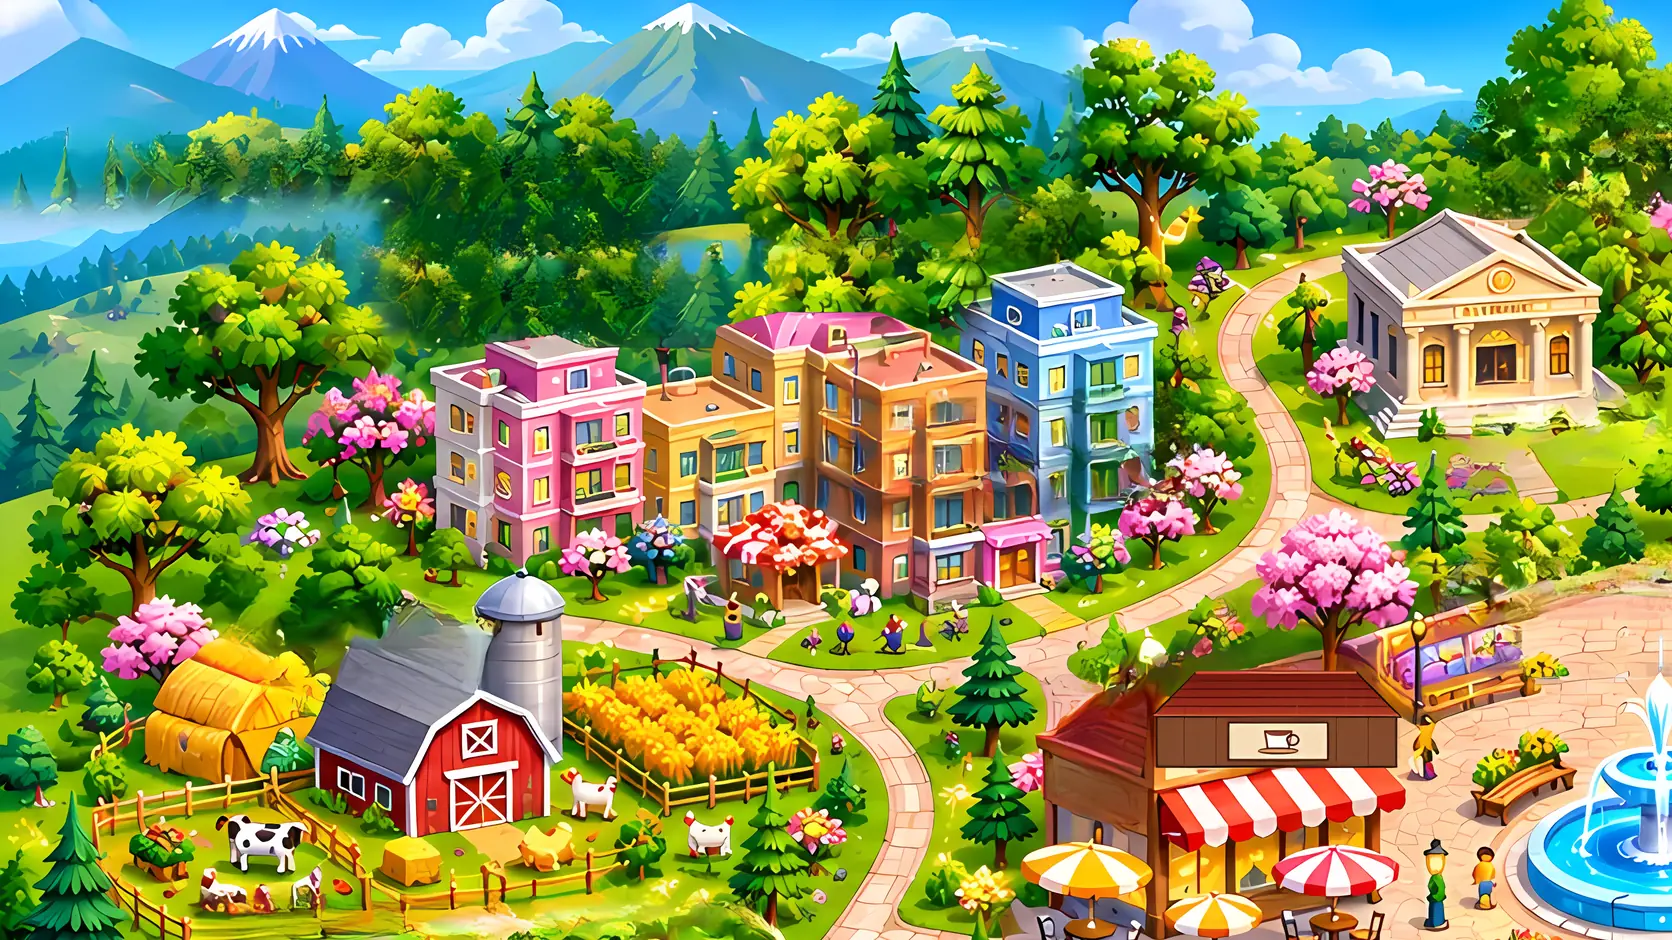
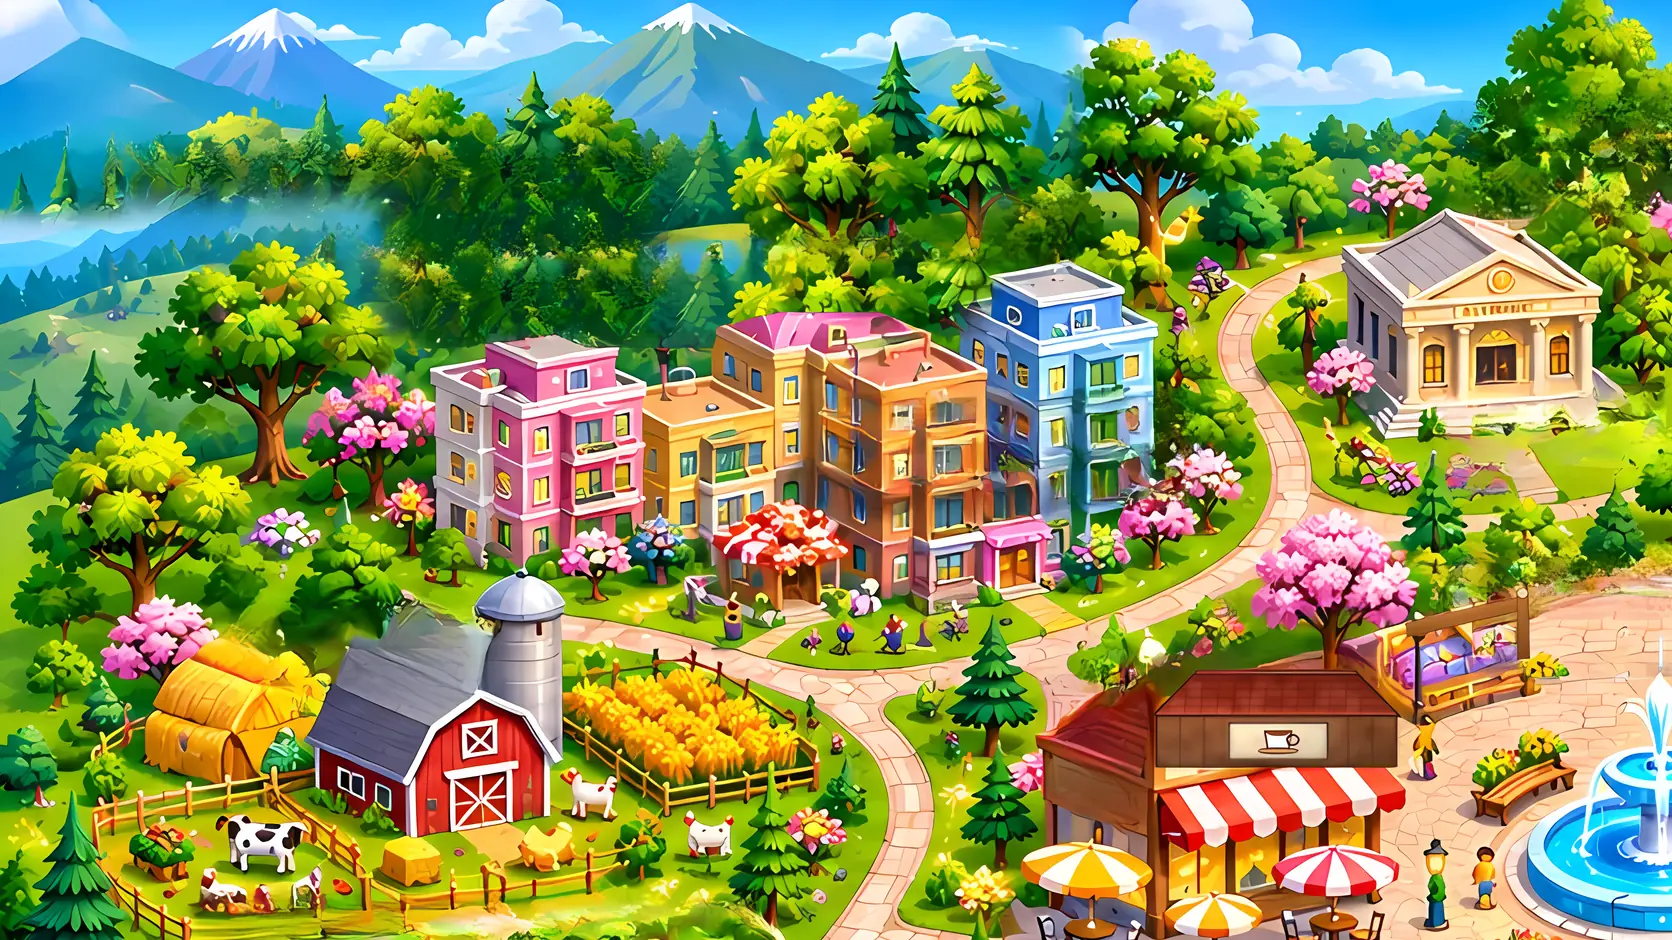
Map art v3: repaint Restaurant roof + Promenade strip, painted Café/Disco roofs, fix dépôt seam, Place bench, left sky haze; regen HD tiles + affected thumbs

diff --git a/tools/map-clean/areas_v3.py b/tools/map-clean/areas_v3.py
@@ -1,0 +1,87 @@
+"""v3: restaurant / promenade from the original; painted depth and small v2 seam fixes. No external art."""
+from PIL import Image, ImageDraw, ImageFilter, ImageChops
+import numpy as np
+from inpaint_v2 import Art
+
+def restaurant(a: Art):
+  a.restore((1246, 274, 1445, 333))
+  hole=a.capsule('restaurant',3,3)
+  a.fill(hole,(1185,215,1500,388),ctx_mask=a.labels_mask(skip=('restaurant',)))
+  road=Image.new('L',(a.W,a.H),0); ImageDraw.Draw(road).rectangle((1296,284,1404,298),fill=255)
+  a.fill(road,(1236,236,1460,330))
+  L,d=a.layer(); a.ellipse(d,(1318,280,1384,291),(70,52,60,70)); a.put(L)
+  # original label completely hid the restaurant roof. Rebuild its terracotta hip roof in the facade's perspective,
+  # using colours sampled from its surviving edges, a lit main face, dark right hip and a light ridge cap.
+  ink=(100,43,22); rows=[]
+  for k in range(1,5):
+    t=k/5; y=296+t*26; xl=1300-t*23; xr=1406+t*6
+    rows.append([(xl,y-3*t),(xr,y+7*t)])
+    for x in np.arange(xl+7+(5 if k%2 else 0),xr-2,11): rows.append([(x,y+(x-xl)/(xr-xl)*8*t),(x-1,y+4.5+(x-xl)/(xr-xl)*8*t)])
+  a.paint([(1300,296),(1406,296),(1412,329),(1277,319)],(178,91,48),(224,142,80),light=.2,ao=.28,outline=ink,ow=1.5,lines=rows,line_col=(138,66,35),line_alpha=.55,highlight=[(1279,318.4),(1410,328.2)],seed=30)
+  a.paint([(1406,296),(1433,315),(1412,329)],(191,99,53),(162,77,37),light=.15,ao=.3,outline=ink,ow=1.3,lines=[[(1410,302),(1426,317)],[(1412,308),(1420,321)]],line_col=(124,56,29),line_alpha=.45,seed=31)
+  a.paint([(1300,296),(1406,296),(1406,298.5),(1298,298.5)],(247,176,108),(195,103,55),light=.12,ao=.12,outline=ink,ow=1,tex=4,seed=32)
+  a.paint([(1276,319),(1412,329),(1434,315),(1434,319),(1412,333),(1276,323)],(214,130,68),(149,69,32),light=.1,ao=.3,outline=ink,ow=1.2,seed=33)
+
+def promenade(a: Art):
+  a.restore((666,590,1018,654))
+  hole=a.capsule('promenade',3,3)
+  # Lamp / rail ghosts in v1: hide the nearby dangling bits from the context rather than letting LaMa extend them.
+  ctx=a.labels_mask(skip=('promenade',)); d=ImageDraw.Draw(ctx)
+  d.rectangle((691,580,716,657),fill=255); d.rectangle((720,580,739,653),fill=255)
+  d.rectangle((796,578,815,659),fill=255)
+  # Keep the main streetlamp, which crosses the removed label, by restoring its stem after repaving.
+  a.fill(hole,(630,535,1060,682),ctx_mask=ctx)
+  ghost=Image.new('L',(a.W,a.H),0); d=ImageDraw.Draw(ghost)
+  for b in ((687,598,709,638),(718,597,739,636),(792,601,818,641),(831,600,852,639),(923,602,945,639)):
+    d.rectangle(b,fill=255)
+  a.fill(ghost,(646,551,1036,682))
+  # rebuild only the interrupted black lamp pole, slightly tapered and lit on its left (no text/signs)
+  a.paint([(801.5,596),(805.5,596),(805,612),(802,612)],(58,58,64),(40,38,42),light=.28,ao=.12,outline=(29,29,34),ow=.6,tex=1.5,grain=1,seed=34)
+  a.paint([(799.5,611),(807.5,611),(808,616),(799,616)],(70,70,78),(34,33,38),light=.25,ao=.15,outline=(29,29,34),ow=.7,tex=1.5,grain=1,seed=35)
+
+
+def depot_seam(a: Art):
+  """v2 left a double white trim + smeared slats where the cloned dépôt roof meets the neighbour's roof. Repaint that
+     wedge as the neighbour's grey slat roof, then one crisp white hip trim down into the original V valley."""
+  wedge = [(1499.6, 436.4), (1540, 446.5), (1540, 458), (1517, 471), (1508.6, 458)]
+  a.paint(wedge, (128, 130, 146), (104, 106, 124), light=.12, ao=.18, outline=None, ow=0, tex=4, grain=1.6, seed=40,
+          lines=[[(1503 + k * 5.5, 437), (1515 + k * 5.5, 471)] for k in range(1, 7)], line_col=(78, 80, 96), line_alpha=.75)
+  L, d = a.layer()
+  a.line(d, [(1503.4, 438.2), (1516.6, 471)], (112, 114, 132, 255), 3.2)       # trim shadow side
+  a.line(d, [(1502.2, 437.4), (1515.6, 470.4)], (244, 246, 252, 255), 1.9)     # lit hip trim
+  a.line(d, [(1503, 437), (1540, 446.8)], (236, 238, 246, 255), 1.4)       # neighbour roof's top edge
+  a.put(L)
+
+def place_edge(a: Art):
+  """Place centrale: LaMa again on the patchy grass edge only, then a crisp painted top rail on the left bench
+     (v2 left its top soft) ending on the bench's right post."""
+  m=Image.new('L',(a.W,a.H),0); d=ImageDraw.Draw(m)
+  d.polygon([(752,286),(803,279),(862,280),(907,289),(907,298),(859,291),(804,291),(752,299)],fill=255)
+  a.fill(m,(674,240,982,348))
+  m=Image.new('L',(a.W,a.H),0); ImageDraw.Draw(m).polygon([(711,288),(757,281),(758,299),(711,311)],fill=255)
+  a.fill(m,(660,230,820,350))
+  wood=(96,46,22)
+  a.paint([(703,311.5),(761,298.2),(761.5,305),(703.5,318.5)],(216,140,66),(150,76,30),light=.14,ao=.22,outline=wood,ow=.8,tex=3,grain=1.3,
+          highlight=[(704,312),(760,299)],seed=42,lines=[[(704,315.4),(761,302.2)]],line_col=(120,58,24),line_alpha=.35)
+  a.paint([(758.5,298),(764,297.6),(764.5,329),(759,329.5)],(206,126,58),(132,66,28),light=.18,ao=.22,outline=wood,ow=.8,tex=3,grain=1.3,seed=43)
+  L,d=a.layer(); a.ellipse(d,(758.6,293.8,764.2,299.4),(246,214,168,255),wood+(255,),.7); a.put(L)
+
+def sky_edge(a: Art):
+  # v2 feathered the clone into the old art at x=0-40 and left a haze. Same mirrored patch, but opaque right to the
+  # left canvas edge. Feather only along the far edge (the forest already matches v2).
+  src=a.out.crop((1130,0,1672,122)).transpose(Image.Transpose.FLIP_LEFT_RIGHT)
+  m=Image.new('L',(a.W,a.H),0); ImageDraw.Draw(m).rectangle((-25,-25,60,105),fill=255)
+  m=m.filter(ImageFilter.GaussianBlur(5)); a.out.paste(src,(0,0),m.crop((0,0,542,122)))
+  # the mirrored source's own right edge is hazy, so the left 0-50 px came out pale. Grade it back towards the
+  # forest at x=60 (saturation, value, local contrast), ramped out to x=60 and feathered top/bottom.
+  import cv2
+  box=(0,30,64,108); c=np.array(a.out.crop(box)).astype(np.float32)
+  hsv=cv2.cvtColor(c.astype(np.uint8),cv2.COLOR_RGB2HSV).astype(np.float32)
+  xs=np.arange(c.shape[1])[None,:]; ys=np.arange(c.shape[0])[:,None]
+  f=np.clip((58-xs)/52,0,1)*np.clip(np.minimum(ys-2,c.shape[0]-1-ys)/12,0,1)
+  hsv[...,1]=np.clip(hsv[...,1]*(1+.22*f),0,255); hsv[...,2]=np.clip(hsv[...,2]*(1-.08*f),0,255)
+  g=cv2.cvtColor(hsv.astype(np.uint8),cv2.COLOR_HSV2RGB).astype(np.float32)
+  g=g+(g-cv2.GaussianBlur(g,(0,0),2.5))*(.6*f)[...,None]
+  a.out.paste(Image.fromarray(np.clip(g,0,255).astype(np.uint8)),box[:2])
+
+AREAS={'restaurant':restaurant,'promenade':promenade,'depot_seam':depot_seam,'place_edge':place_edge,'sky_edge':sky_edge}

diff --git a/tools/map-clean/areas_v2.py b/tools/map-clean/areas_v2.py
@@ -75,34 +75,27 @@ def cafe(a: Art):
   hole = a.capsule('cafe', pad=3, shadow=4)
   ImageDraw.Draw(hole).rectangle((586, 368, 690, 384), fill=255)  # the cut "Café" lettering on the board
   a.fill(hole, (440, 250, 790, 440), ctx_mask=a.labels_mask(skip=('cafe',)))
-  L, d = a.layer(); ink = (70, 30, 18, 255)
-  a.poly(d, [(578, 383), (698, 383), (698, 357), (578, 357)], (132, 74, 44, 255), ink, 1.5)          # wood facade
-  for x in (592, 608, 668, 684):
-    a.line(d, [(x, 358), (x, 382)], (112, 60, 36, 255), 0.9)
-  # hip roof in the left wing's colours: shingle rows, darker towards the ridge
-  front, ridge = 357.5, 336.0
-  for i in range(22):
-    t = i / 21; y = ridge + t * (front - ridge); xl = 598 - t * 22; xr = 678 + t * 22
-    c = tuple(int(v) for v in np.array([118, 28, 18]) * (1 - t) + np.array([170, 58, 40]) * t) + (255,)
-    a.poly(d, [(xl, y), (xr, y), (xr + 1.1, y + 1.1), (xl - 1.1, y + 1.1)], c)
+  ink = (70, 30, 18)
+  # painted wood facade with soft plank lines
+  a.paint([(578, 357), (698, 357), (698, 383), (578, 383)], (150, 88, 52), (112, 60, 34), light=0.16, ao=0.3, outline=ink, ow=1.4,
+          lines=[[(x, 358), (x, 382)] for x in (590, 602, 674, 686)], line_alpha=0.45, seed=11)
+  # painted hip roof in the left wing's terracotta: darker at the ridge, lit from the left, soft shingle rows
+  front, ridge = 357.5, 336.0; rows = []
   for k in range(1, 5):
-    t = k / 5; y = ridge + t * (front - ridge); xl = 598 - t * 22; xr = 678 + t * 22
-    a.line(d, [(xl + 1, y), (xr - 1, y)], (96, 22, 14, 255), 0.9)
-    off = 4 if k % 2 else 0
-    for x in np.arange(xl + 4 + off, xr - 3, 8):
-      a.line(d, [(x, y), (x, y + (front - ridge) / 5 - 0.6)], (104, 26, 16, 160), 0.7)
-  a.poly(d, [(576, 358), (700, 358), (678, 336), (598, 336)], None, ink, 1.6)
-  a.line(d, [(598, 336.2), (678, 336.2)], (196, 92, 66, 255), 1.6)                                    # ridge cap
-  a.line(d, [(577, 357.4), (699, 357.4)], (204, 104, 70, 255), 1.0)
-  # text-free sign board with a coffee cup
-  a.poly(d, [(614, 361), (664, 361), (664, 380), (614, 380)], (240, 222, 188, 255), ink, 1.4)
-  a.poly(d, [(632.5, 365.5), (645.5, 365.5), (644, 374.5), (634, 374.5)], (255, 255, 255, 255), ink, 1.1)
-  a.ellipse(d, (643, 367, 649.5, 372.8), None, ink, 1.2)
-  a.ellipse(d, (629, 373.8, 649, 377.2), (210, 146, 100, 255), ink, 0.9)
+    t = k / 5; y = ridge + t * (front - ridge); xl = 598 - t * 22; xr = 678 + t * 22; rows.append([(xl + 1, y), (xr - 1, y)])
+    for x in np.arange(xl + 4 + (4 if k % 2 else 0), xr - 3, 8): rows.append([(x, y), (x, y + (front - ridge) / 5 - 0.8)])
+  a.paint([(598, 336), (678, 336), (700, 358), (576, 358)], (112, 30, 20), (184, 72, 46), light=0.2, ao=0.3, outline=ink, ow=1.6,
+          lines=rows, line_col=(92, 22, 14), line_alpha=0.5, highlight=[(578, 357), (698, 357)], seed=12)
+  a.paint([(598, 334.8), (678, 334.8), (678, 337.6), (598, 337.6)], (206, 104, 72), (160, 66, 44), light=0.1, ao=0.1, outline=ink, ow=1.0, seed=13)
+  # text-free sign board with a soft inner shadow, and the coffee cup
+  a.paint([(614, 361), (664, 361), (664, 380), (614, 380)], (250, 234, 204), (226, 204, 166), light=0.1, ao=0.35, outline=ink, ow=1.4, tex=3, seed=14)
+  L, d = a.layer()
+  a.poly(d, [(632.5, 365.5), (645.5, 365.5), (644, 374.5), (634, 374.5)], (255, 255, 255, 255), ink + (255,), 1.1)
+  a.ellipse(d, (643, 367, 649.5, 372.8), None, ink + (255,), 1.2)
+  a.ellipse(d, (629, 373.8, 649, 377.2), (210, 146, 100, 255), ink + (255,), 0.9)
   a.ellipse(d, (633.5, 365.2, 644.5, 367.8), (120, 62, 36, 255))
   a.put(L)
-  a.out.paste(a.out.crop((572, 332, 704, 386)).filter(ImageFilter.GaussianBlur(0.35)), (572, 332))
-  a.grain((572, 332, 704, 386), 1.8, 3)
+  a.out.paste(a.out.crop((572, 332, 704, 386)).filter(ImageFilter.GaussianBlur(0.3)), (572, 332))
 
 AREAS = {'club': club, 'festivals': festivals, 'cafe': cafe}
 
@@ -135,20 +128,17 @@ def disco(a: Art):
   road = a.O.crop((1290, 484, 1418, 503)).resize((145, 30), Image.Resampling.BICUBIC)
   lay.paste(road, (1270, 506))
   a.out = Image.composite(lay, a.out, ghost.filter(ImageFilter.GaussianBlur(2)))
-  L, d = a.layer(); ink = (46, 18, 86, 255)
-  for i in range(16):  # roof top, darker at the back
-    t = i / 15; y = 530 + t * 15
-    c = tuple(int(v) for v in np.array([70, 32, 128]) * (1 - t) + np.array([112, 56, 190]) * t) + (255,)
-    a.poly(d, [(1226 - t * 12, y), (1398 + t * 12, y), (1398 + t * 12, y + 1.2), (1226 - t * 12, y + 1.2)], c)
-  a.poly(d, [(1214, 546), (1410, 546), (1398, 530), (1226, 530)], None, ink, 1.5)
-  a.poly(d, [(1212, 545), (1412, 545), (1412, 554), (1212, 554)], (128, 64, 214, 255), ink, 1.4)  # parapet
-  a.line(d, [(1214, 547.3), (1410, 547.3)], (255, 140, 240, 255), 1.6)                             # neon
-  a.line(d, [(1214, 552.2), (1410, 552.2)], (98, 42, 168, 255), 1.0)
+  ink = (46, 18, 86)
+  # painted roof deck: dark at the back, lit from the left, with faint panel seams
+  a.paint([(1226, 530), (1398, 530), (1410, 546), (1214, 546)], (58, 26, 108), (112, 56, 186), light=0.22, ao=0.32, outline=ink, ow=1.5,
+          lines=[[(x, 531), (x - 2 + (x - 1312) * 0.07, 545)] for x in range(1244, 1400, 26)], line_col=(52, 22, 98), line_alpha=0.4, seed=21)
+  # parapet: vertical gradient, light top rim, neon tube with a soft pink halo
+  a.paint([(1212, 545), (1412, 545), (1412, 554.5), (1212, 554.5)], (150, 86, 232), (92, 40, 166), light=0.18, ao=0.25, outline=ink, ow=1.4,
+          highlight=[(1214, 545.8), (1410, 545.8)], seed=22)
+  a.glow([(1215, 548.6), (1409, 548.6)], (255, 120, 236), w=1.5, blur=2.6, strength=0.9)
   for x in (1250, 1374):  # two little rooftop spotlights
-    a.ellipse(d, (x - 5, 533, x + 5, 541), (60, 62, 84, 255), ink, 1.0)
-    a.ellipse(d, (x - 3, 533.5, x + 3, 537.5), (170, 246, 255, 255))
-  a.put(L)
-  a.grain((1205, 526, 1418, 556), 1.4, 5)
+    a.paint([(x - 5, 534), (x + 5, 534), (x + 4, 541), (x - 4, 541)], (92, 94, 120), (48, 50, 70), light=0.25, ao=0.2, outline=ink, ow=1.0, tex=2, seed=x)
+    a.glow([(x - 2.4, 535.6), (x + 2.4, 535.6)], (150, 240, 255), w=2.0, blur=2.0, strength=0.7)
 
 def place(a: Art):
   """Place centrale: the label hid the plaza's north edge between two benches. Paving is cloned from the plaza just

diff --git a/tools/map-clean/inpaint_v2.py b/tools/map-clean/inpaint_v2.py
@@ -48,6 +48,49 @@ class Art:
   def grain(s, box, amt=2.0, seed=0):  # tiny noise so flat paint matches the art's texture
     a = np.array(s.out.crop(box)).astype(np.float32); a += np.random.default_rng(seed).normal(0, amt, a.shape)
     s.out.paste(Image.fromarray(np.clip(a, 0, 255).astype(np.uint8)), box[:2])
+  def paint(s, pts, top, bottom, light=0.14, ao=0.28, outline=(60, 28, 18), ow=1.4, tex=7.0, grain=2.2, seed=0,
+            lines=None, line_col=None, line_alpha=0.35, highlight=None):
+    """Painted surface in the map's style (not a flat fill): vertical colour gradient (top -> bottom), light from the
+       upper left, soft ambient occlusion towards the edges, low-frequency paint texture + fine grain, optional soft
+       detail lines (shingles / planks), a light rim along the front edge, and a slightly soft dark outline."""
+    import cv2
+    m = Image.new('L', (s.W * SS, s.H * SS), 0); ImageDraw.Draw(m).polygon([(x * SS, y * SS) for x, y in pts], fill=255)
+    A = np.array(m.resize((s.W, s.H), Image.LANCZOS)).astype(np.float32) / 255
+    ys, xs = np.nonzero(A > 0.01); y0, y1, x0, x1 = ys.min() - 3, ys.max() + 4, xs.min() - 3, xs.max() + 4
+    a = A[y0:y1, x0:x1]; h, w = a.shape
+    t = np.clip((np.arange(h)[:, None] - 3) / max(1, h - 7), 0, 1); u = np.clip((np.arange(w)[None, :] - 3) / max(1, w - 7), 0, 1)
+    col = np.array(top, np.float32) * (1 - t[..., None]) + np.array(bottom, np.float32) * t[..., None]
+    col = col * (1 + light * (0.5 - u))[..., None] * (1 + light * 0.5 * (0.5 - t))[..., None]
+    inner = cv2.GaussianBlur(a, (0, 0), 2.2); col *= (1 - ao * np.clip(1 - inner, 0, 1) * (a > 0))[..., None]
+    rng = np.random.default_rng(seed)
+    lo = cv2.GaussianBlur(rng.normal(0, 1, (h, w)).astype(np.float32), (0, 0), 2.6); lo /= (lo.std() + 1e-6)
+    col += (lo * tex)[..., None] + rng.normal(0, grain, (h, w, 3))
+    if lines:
+      L = Image.new('L', (w * SS, h * SS), 0); d = ImageDraw.Draw(L)
+      for seg in lines: d.line([((x - x0) * SS, (y - y0) * SS) for x, y in seg], fill=255, width=int(0.9 * SS))
+      la = cv2.GaussianBlur(np.array(L.resize((w, h), Image.LANCZOS)).astype(np.float32) / 255, (0, 0), 0.45) * line_alpha
+      lc = np.array(line_col or [v * 0.62 for v in bottom], np.float32)
+      col = col * (1 - la[..., None]) + lc * la[..., None]
+    if highlight:  # light rim (e.g. the front edge catching the light)
+      H = Image.new('L', (w * SS, h * SS), 0); ImageDraw.Draw(H).line([((x - x0) * SS, (y - y0) * SS) for x, y in highlight], fill=255, width=int(1.3 * SS))
+      ha = cv2.GaussianBlur(np.array(H.resize((w, h), Image.LANCZOS)).astype(np.float32) / 255, (0, 0), 0.5) * 0.75
+      col = col * (1 - ha[..., None]) + np.minimum(255, np.array(bottom, np.float32) * 1.35 + 30) * ha[..., None]
+    if outline is not None and ow:
+      O = Image.new('L', (w * SS, h * SS), 0); P = [((x - x0) * SS, (y - y0) * SS) for x, y in pts]
+      ImageDraw.Draw(O).line(P + [P[0]], fill=255, width=int(ow * SS), joint='curve')
+      oa = cv2.GaussianBlur(np.array(O.resize((w, h), Image.LANCZOS)).astype(np.float32) / 255, (0, 0), 0.4)
+      col = col * (1 - oa[..., None]) + np.array(outline, np.float32) * oa[..., None]; a = np.maximum(a, oa)
+    base = np.array(s.out.crop((x0, y0, x1, y1))).astype(np.float32)
+    res = base * (1 - a[..., None]) + np.clip(col, 0, 255) * a[..., None]
+    s.out.paste(Image.fromarray(np.clip(res, 0, 255).astype(np.uint8)), (int(x0), int(y0)))
+  def glow(s, pts, color, w=1.6, blur=2.5, strength=0.8):  # neon line with a soft halo
+    import cv2
+    m = Image.new('L', (s.W * SS, s.H * SS), 0); ImageDraw.Draw(m).line([(x * SS, y * SS) for x, y in pts], fill=255, width=int(w * SS))
+    a = np.array(m.resize((s.W, s.H), Image.LANCZOS)).astype(np.float32) / 255
+    halo = cv2.GaussianBlur(a, (0, 0), blur) * strength
+    o = np.array(s.out).astype(np.float32); c = np.array(color, np.float32)
+    o = o + (c - o) * halo[..., None] * 0.55; o = o * (1 - a[..., None]) + np.minimum(255, c * 0.6 + 110) * a[..., None]
+    s.out = Image.fromarray(np.clip(o, 0, 255).astype(np.uint8))
   def labels_mask(s, skip=()):
     m = Image.new('L', (s.W, s.H), 0)
     for n in BOXES:

diff --git a/tools/map-clean/README.md b/tools/map-clean/README.md
@@ -26,3 +26,19 @@ degree Festivals, Dépôt and Ponton. District badges and level-2 pins are drawn
 - **Ponton**: a narrow second LaMa pass removes ghost shapes.
 
 `public/playermap/hd/map_clean_{r}{c}.webp` holds 2×2 tiles of a 3344×1882 version of the clean art. It was made with Real-ESRGAN x4plus-anime-6B (BSD-3, CPU) and then Lanczos-downscaled to exactly 2×. `PlayerMap` loads only the tiles under the view, and only on level 2 when zoom × devicePixelRatio > 1.15 (for example on an iPhone at DPR 3).
+
+## v3 touch-up (areas_v3.py + painted surfaces)
+Base: the v2 result rebuilt losslessly (`inpaint_v2.py` areas on the v1 clean art), then `areas_v2.cafe/disco` (now painted)
+and every `areas_v3.AREAS` recipe. `Art.paint()` replaces flat vector fills with a painted surface: vertical colour
+gradient, light from the upper left, soft edge occlusion, low-frequency paint texture + grain, soft detail lines
+(shingles / planks / slats), a lit front rim and a slightly soft outline; `Art.glow()` draws neon with a halo.
+- Restaurant: label area restored from the original, LaMa for the street/trees (other labels masked out of the context),
+  second LaMa pass on the street behind the roof (truck smear), then a painted terracotta hip roof + ridge cap + fascia.
+- Promenade & Boutiques: restored from the original, LaMa with the cut lamp/rail stubs hidden from the context, a
+  thin ghost-post pass, and the streetlamp stem repainted to its base.
+- Café main block / Disco: painted roof, facade/parapet, sign board (Café) and neon + spotlights (Disco).
+- Dépôt seam: the double white trim is repainted as one grey slat hip face with one lit trim into the original valley.
+- Place centrale: LaMa on the grass edge, painted top rail + end post on the left bench.
+- Sky x 0-60: the mirrored patch is pasted opaque to the edge and graded (saturation / value / local contrast).
+HD tiles: `upscale.py` on the v3 PNG, then split into `hd/map_clean_{r}{c}.webp` (2x2 of 1672x940/942, q74).
+Thumbs regenerated with the same crop boxes (template-matched): cafe, depot, disco, festival, restaurant, factory.
